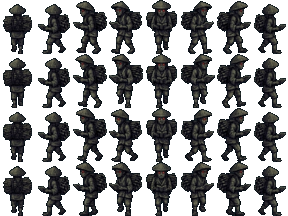
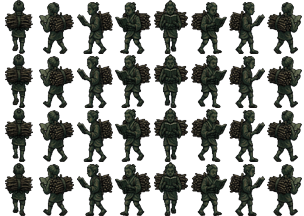
角色重畫：咪醬倒地、二宮金次郎像（行走＋台座）、電視裡的女人

diff --git a/game.js b/game.js
@@ -1244,7 +1244,7 @@ function drawObj(o, alpha) {
     case 'bleach': box(x, y, 1, 1, o.hideOnly ? 9 : 18, '#5a5048', '#3e3630', '#342d28'); if (!o.hideOnly) box(x, y, .5, 1, 9, '#61574e', null, null, 18); break;
     case 'box': box(x + .15, y + .2, .7, .6, 14 + shaking, '#6b5232', '#4c3a24', '#3f301d'); ctx.fillStyle = '#2e2416'; ctx.fillRect(cx - 6, cy - 9, 12, 1); break;
     case 'trash': box(x + .3, y + .3, .4, .4, 12 + shaking, '#596066', '#3d4247', '#33373b'); break;
-    case 'statue': box(x + .15, y + .15, .7, .7, 10, '#6c6a64', '#4a4843', '#403e3a'); if (!o.gone && IMG.ninomiya) ctx.drawImage(IMG.ninomiya, cx - 16, cy - 58); break;
+    case 'statue': box(x + .15, y + .15, .7, .7, 10, '#6c6a64', '#4a4843', '#403e3a'); if (!o.gone && IMG.ninomiya) ctx.drawImage(IMG.ninomiya, Math.round(cx - IMG.ninomiya.width / 2), Math.round(cy - 8 - IMG.ninomiya.height)); break;
     case 'bike': ctx.strokeStyle = '#555a5e'; ctx.beginPath(); ctx.ellipse(cx - 6, cy - 5, 5, 4, 0, 0, 7); ctx.ellipse(cx + 6, cy - 2, 5, 4, 0, 0, 7); ctx.moveTo(cx - 6, cy - 5); ctx.lineTo(cx, cy - 10); ctx.lineTo(cx + 6, cy - 2); ctx.stroke(); break;
     case 'gdesk': box(x + .1, y + .2, .8, .6, 12, '#5a4632', '#3e3022', '#33281c'); ctx.fillStyle = '#d8cfb8'; ctx.fillRect(cx - 4, cy - 15, 7, 4); break;
     case 'desk': {

diff --git a/index.html b/index.html
@@ -351,7 +351,7 @@ html,body{height:100%;background:#000;overflow:hidden;color:var(--ink);font-fami
   </div>
   <div id="rot" class="ui hide">請將手機轉為橫向遊玩<br>↻</div>
 </div>
-<script src="game.js?v=848e357c"></script>
+<script src="game.js?v=20bf2cf4"></script>
 <script src="ch2.js?v=d87bb526"></script>
 <script src="ch2b.js?v=3e2b573d"></script>
 <script src="ch3.js?v=67c59078"></script>
